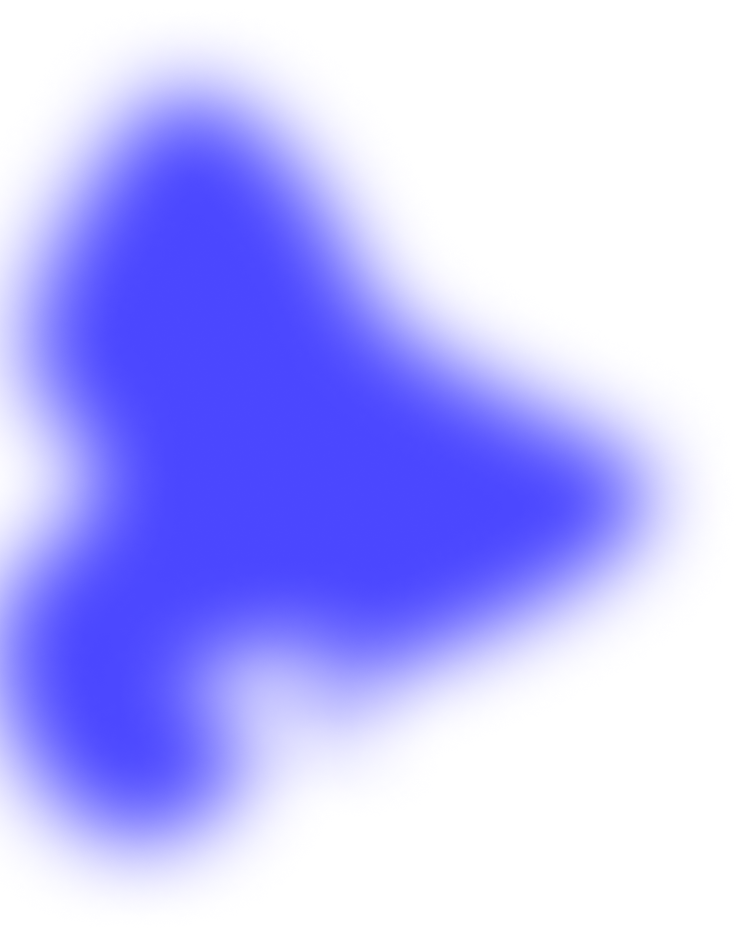
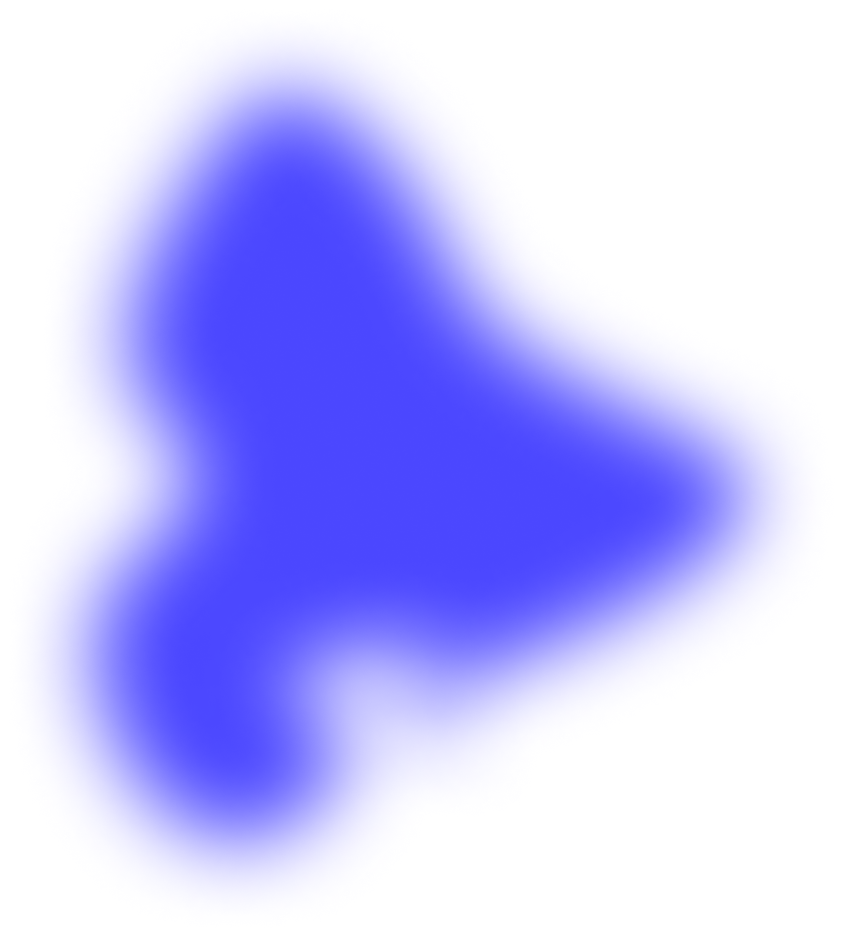
modified reference

Changed region(s): [[0.0, 0.062, 0.712, 0.9305], [0.2167, 0.6513, 0.4643, 0.9305], [0.5572, 0.6513, 0.712, 0.7444]]

diff --git a/src/app/main-page/about-me/about-me.component.scss b/src/app/main-page/about-me/about-me.component.scss
@@ -29,22 +29,22 @@ section {
   }
 
   .profile-img-container {
-    width: 60%;
-
+    width: 50%;
     display: flex;
     justify-content: center;
     align-items: center;
     height: 700px;
     background-repeat: no-repeat;
-    background-image: url("./../../../assets/img/d-blue2.png"),
-      url("./../../../assets/img/l-blue3.png");
+    background-image: url("./../../../assets/img/l-blue2.png"),
+      url("./../../../assets/img/d-blue2.png");
 
     background-position: top right, top right;
     background-repeat: no-repeat, no-repeat;
-    background-size: 50% 99%, 105% 94%;
+    background-size:65% 118%, 92% 149%;
 
     > img {
-      width: 50%;
+    width: 300px;
+    height: 767px;
     }
   }
 }
@@ -55,7 +55,6 @@ section {
 
 @media (max-width: 1920px) {
   .profile-img-container {
-  
     > img {
       margin-top: -180px !important;
     }
@@ -102,13 +101,11 @@ section {
       }
     }
   }
- 
-    .profile-img-container {
-      > img {
-        height: 900px !important;
-      }
-    }
-
+    // .profile-img-container {
+    //   > img {
+    //     height: 900px !important;
+    //   }
+    // }
 }
 
 @media (max-width: 1285px) {
@@ -164,13 +161,11 @@ section {
       height: 65% !important;
     }
   }
-  .profile-img-container {
-    width: 100% !important;
-    > img {
-      width: 60% !important;
-
-    }
-  }
+   .profile-img-container {
+     width: 100% !important;
+    display: flex;
+    align-items: center;
+   }
   .text-container {
     z-index: 100 !important;
   }
@@ -211,9 +206,9 @@ section {
 
 
 @media (max-width: 687px) {
-  .profile-img-container {
-  height: 620px !important;
-  }
+  // .profile-img-container {
+  // height: 620px !important;
+  // }
 }
 
 @media (max-width: 640px) {
@@ -242,11 +237,11 @@ section {
       height: 40% !important;
     }
   }
-  .profile-img-container {
-    > img {
-      width: 75% !important;
-    }
-  }
+  // .profile-img-container {
+  //   > img {
+  //     width: 75% !important;
+  //   }
+  // }
 }
 @media (max-width: 513px) {
   section{
@@ -274,20 +269,14 @@ section {
   section{
     height: 170vh !important;
   }
-  .profile-img-container {
-    > img {
-      width: 80% !important;
-      height: 863px !important;
-    }
-  }
+  // .profile-img-container {
+  //   > img {
+  //     // width: 80% !important;
+  //     height: 863px !important;
+  //   }
+  // }
 }
 @media (max-width: 440px) {
-  .profile-img-container {
-    > img {
-      width: 80% !important;
-      height: 863px !important;
-    }
-  }
   section {
     .curve {
       margin-top: -820px !important;

diff --git a/src/app/main-page/references/references.component.scss b/src/app/main-page/references/references.component.scss
@@ -7,16 +7,16 @@ section {
 }
 
 section::before {
+  background-image: url("./../../../assets/img/l-blue1.png");
   content: "";
   position: absolute;
-  width: 60%;
-  height: 50vh;
-  background-image: url("./../../../assets/img/d-blue1.png");
+  width: 388px;
+  height: 558px;
   background-position: 100% top;
   background-size: 48% 71%;
-  transform: rotate(180deg);
   background-repeat: no-repeat;
   z-index: -20;
+  left: -209px;
 }
 
 .reference-img-container {
@@ -35,10 +35,8 @@ section::before {
   height: 220px;
   font-size: 16px;
   font-weight: 400;
-
   border-radius: 30px;
-  border: 4px solid rgba(112, 230, 28, 1);
-
+  border: 4px solid rgba(0, 190, 232, 1);
   > div {
     > img {
       width: 250px;
@@ -61,7 +59,7 @@ section::before {
 .colleague-img {
   width: 180px;
   height: 180px;
-  border: 2px solid rgba(112, 230, 28, 1);
+  border: 2px solid rgba(0, 190, 232, 1);
   border-radius: 50%;
 }
 
@@ -78,11 +76,18 @@ section::before {
     justify-content: space-around;
     align-items: center;
 
-    .point {
-      width: 5px;
-      height: 5px;
-      background-color: rgba(112, 230, 28, 1);
+    .pointLightBlue {
+      width: 7px;
+      height: 7px;
+      background-color: rgba(0, 190, 232, 1);
       border-radius: 50%;
+    }
+    .pointDarkBlue {
+      width: 7px;
+      height: 7px;
+      background-color: rgba(75, 71, 255, 1);
+      border-radius: 50%;
+      box-shadow: 0px 0px 10px rgba(75, 71, 255, 1);
     }
   }
 }
@@ -96,19 +101,19 @@ section::before {
 }
 
 .left-arrow {
-  background-image: url("./../../../assets/img/arrow-left-referance.png");
+  background-image: url("./../../../assets/img/arrow-left-referance.svg");
 }
 
 .right-arrow {
-  background-image: url("./../../../assets/img/arrrow-right-referance.png");
+  background-image: url("./../../../assets/img/arrrow-right-referance.svg");
 }
 
 .left-arrow:hover {
-  background-image: url("./../../../assets/img/arrow-left-referance-frame.png");
+  background-image: url("./../../../assets/img/arrow-left-referance-frame.svg");
 }
 
 .right-arrow:hover {
-  background-image: url("./../../../assets/img/arrow-right-referance-frame.png");
+  background-image: url("./../../../assets/img/arrow-right-referance-frame.svg");
 }
 
 // media/////

diff --git a/src/app/main-page/profile/profile.component.scss b/src/app/main-page/profile/profile.component.scss
@@ -10,20 +10,20 @@ section {
     position: relative;
     .blue-img1 {
       position: absolute;
-      top: 0;
-      left: 0;
-      height: 100vh;
+      top: 0px;
+      left: -76px;
+      height: 650px;
       width: 400px;
-      transform: rotate(180deg);
+      transform: rotate(0deg);
     }
 
     .blue-img2 {
       position: absolute;
       top: 0;
-      right: 0;
-      height: 100vh;
-      width: 300px;
-      transform: rotate(180deg);
+      right: -100px;
+      height: 630px;
+      width: 273px;
+      transform: rotate(187deg);
     }
   }
 
@@ -270,18 +270,21 @@ section {
 }
 @media (max-width: 600px) {
   .blue-img1 {
+    left: -19px !important;
     height: 492px !important;
     width: 122px !important;
   }
   .blue-img2{
+    right: -28px !important;
     height: 500px !important;
     width: 113px !important;
   }
 }
 @media (max-width: 500px) {
   .blue-img2 {
-    height: 581px !important;
-    width: 120px !important;
+    height: 520px !important;
+    width: 85px !important;
+
   }
   .blue-img1 {
     height: 492px !important;
@@ -348,6 +351,6 @@ section {
   }
 
   .blue-img2{
-    width: 80px !important;
+    width: 60px !important;
   }
 }

diff --git a/src/app/main-page/references/references.component.html b/src/app/main-page/references/references.component.html
@@ -17,9 +17,9 @@
         <div class="arrow-container">
             <div class="sub-arrow-container">
                 <div (click)="previousReferance()" class="image-container left-arrow"></div>
-                <div class="point"></div>
-                <div class="point"></div>
-                <div class="point"></div>
+                @for(referance of referance; track referance.name; let index = $index){
+                <div [ngClass]="{'pointDarkBlue': currentIndex === index, 'pointLightBlue': currentIndex !== index}"></div>
+                }
                 <div (click)="nextReferance()" class="image-container right-arrow"></div>
             </div>
         </div>

diff --git a/src/app/main-page/references/references.component.ts b/src/app/main-page/references/references.component.ts
@@ -1,10 +1,11 @@
+import { CommonModule } from '@angular/common';
 import { Component } from '@angular/core';
 import { TranslateModule } from '@ngx-translate/core';
 
 @Component({
   selector: 'app-references',
   standalone: true,
-  imports: [TranslateModule],
+  imports: [TranslateModule, CommonModule],
   templateUrl: './references.component.html',
   styleUrl: './references.component.scss',
 })
@@ -23,7 +24,7 @@ export class ReferencesComponent {
     },
     {
       name: 'Bilal Urgun',
-      img: './../../../assets/img/büny-img.png',
+      img: './../../../assets/img/d-blue1.png',
       ref: 'references.bilal.ref',
     },
   ];

diff --git a/src/app/main-page/contact/contact.component.scss b/src/app/main-page/contact/contact.component.scss
@@ -11,14 +11,15 @@ section {
 section::before {
   content: "";
   position: absolute;
-  width: 100%;
-  height: 80vh;
+  width: 369px;
+  height: 608px;
   background-image: url("./../../../assets/img/d-blue2.png");
   background-position: -22% top;
-  background-size: 48% 71%;
+  background-size: 90% 71%;
   transform: rotate(180deg);
   background-repeat: no-repeat;
   z-index: -1;
+  right: 0;
 }
 
 .contact-container {
@@ -81,6 +82,7 @@ form {
   margin-top: 16px;
   > span {
     margin-left: 12px;
+    width: 500px;
     > a {
       color: rgba(75, 71, 255, 1);
       cursor: pointer;

diff --git a/src/app/main-page/projects/projects.component.scss b/src/app/main-page/projects/projects.component.scss
@@ -24,19 +24,19 @@ section {
     position: relative;
     margin-top: 87px;
     max-width: 1900px;
-    width: 30%;
-    height: 40%;
-    left: -114px;
+    width: 300px;
+    height: 593px;
+    left: -78px;
   }
   > .img2 {
     position: relative;
-    margin-top: 14px;
+    margin-top: 611px;
     max-width: 1900px;
-    width: 21%;
-    height: 72%;
+    width: 300px;
+    height: 500px;
     right: 0;
     overflow: hidden;
-    z-index: 30;
+    z-index: 30
   }
 }
 .background2 {

diff --git a/src/app/main-page/skills/skills.component.scss b/src/app/main-page/skills/skills.component.scss
@@ -19,8 +19,8 @@ section {
 
   .skills-img-container {
     background-image: url("./../../../assets/img/l-blue3.png");
-    background-position: -60% top;
-    background-size: 57% 87%;
+    background-position: 0% top;
+    background-size: 25% 67%;
 
     background-repeat: no-repeat;
     z-index: 100;

diff --git a/src/app/main-page/about-me/about-me.component.ts b/src/app/main-page/about-me/about-me.component.ts
@@ -12,7 +12,6 @@ import AOS from 'aos';
 })
 export class AboutMeComponent {
   ngOnInit() {
-    console.log('AOS initialisiert');
     AOS.init();
   }
   isGerman: boolean = false;
